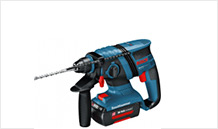
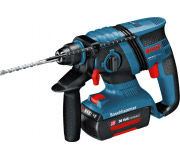
Добавил размеры

diff --git a/index.html b/index.html
@@ -41,14 +41,17 @@
       			<div class="catalog-item">
       				<h3>Материалы</h3>
       				<a href="">На любой вкус</a>
+      				<img src="img/icon-1.svg">
       			</div>
       			<div class="catalog-item">
       				<h3>Инструмент</h3>
       				<a href="">На все случаи</a>
+      				<img src="img/icon-2.svg">
       			</div>
       			<div class="catalog-item">
       				<h3>Техника</h3>
       				<a href="">Для стройки</a>
+      				<img src="img/icon-3.svg">
       			</div>
       			<div class="catalog-item">
 
@@ -73,10 +76,12 @@
       			<div class="catalog-item">
       				<h3>Скидки 50%</h3>
       				<a href="">На 350 товаров</a>
+      				<img src="img/icon-4.svg">
       			</div>
       			<div class="catalog-item">
       				<h3>Доставка</h3>
       				<a href="">Бесплатно</a>
+      				<img src="img/icon-5.svg">
       			</div>
       		</section>
 
@@ -103,7 +108,7 @@
       						<a href="">Перфоратор<span class="">BOSCH BFG 3000</span></a>
       					</h3>
       					<p>
-      						<a href=""><img src="img/bosch3000.jpg" width="218" height="129" alt="Перфоратор BOSCH BFG 3000"></a>
+      						<a href=""><img src="img/bosch3000.jpg" width="180" height="160" alt="Перфоратор BOSCH BFG 3000"></a>
       					</p>
       					<p>
       						<span class="item-price">22500р.</span>
@@ -115,7 +120,7 @@
       						<a href="">Перфоратор<span class="">BOSCH BFG 6000</span></a>
       					</h3>
       					<p>
-      						<a href=""><img src="img/bosch6000.jpg" width="218" height="129" alt="Перфоратор BOSCH BFG 6000"></a>
+      						<a href=""><img src="img/bosch6000.jpg" width="180" height="160" alt="Перфоратор BOSCH BFG 6000"></a>
       					</p>
       					<p>
       						<span class="item-price">30500р.</span>
@@ -127,7 +132,7 @@
       						<a href="">Перфоратор<span class="">BOSCH BFG 2000</span></a>
       					</h3>
       					<p>
-      						<a href=""><img src="img/bosch2000.jpg" width="218" height="129" alt="Перфоратор BOSCH BFG 2000"></a>
+      						<a href=""><img src="img/bosch2000.jpg" width="180" height="160" alt="Перфоратор BOSCH BFG 2000"></a>
       					</p>
       					<a href="" class="button item-button">12500р.</a>
        				</li>
@@ -141,28 +146,28 @@
       			</p>
       			<ul>
       				<li>
-      					<a href=""><img src="img/bosch.png" width="" height="" alt="BOSCH"></a>
+      					<a href=""><img src="img/bosch.png" width="126" height="37" alt="BOSCH"></a>
       				</li>
       				<li>
-      					<a href=""><img src="img/makita.png" width="" height="" alt="Makita"></a>
+      					<a href=""><img src="img/makita.png" width="123" height="40" alt="Makita"></a>
       				</li>
       				<li>
-      					<a href=""><img src="img/dewalt.png" width="" height="" alt="DeWALT"></a>
+      					<a href=""><img src="img/dewalt.png" width="146" height="44" alt="DeWALT"></a>
       				</li>
       				<li>
-      					<a href=""><img src="img/interscol.png" width="" height="" alt="Интерскол"></a>
+      					<a href=""><img src="img/interscol.png" width="184" height="32" alt="Интерскол"></a>
       				</li>
       				<li>
-      					<a href=""><img src="img/Hitachi.png" width="" height="" alt="Hitachi"></a>
+      					<a href=""><img src="img/Hitachi.png" width="169" height="31" alt="Hitachi"></a>
       				</li>
       				<li>
-      					<a href=""><img src="img/LG.png" width="" height="" alt="LG"></a>
+      					<a href=""><img src="img/LG.png" width="121" height="73" alt="LG"></a>
       				</li>
       				<li>
-      					<a href=""><img src="img/AEG.png" width="" height="" alt="AEG"></a>
+      					<a href=""><img src="img/AEG.png" width="151" height="96" alt="AEG"></a>
       				</li>
       				<li>
-      					<a href=""><img src="img/metabo.png" width="" height="" alt="metabo"></a>
+      					<a href=""><img src="img/metabo.png" width="204" height="69" alt="metabo"></a>
       				</li>
       			</ul>
       		</section>
@@ -201,7 +206,7 @@
       		<section class="contact">
       			<h2 class="caption">Контакты</h2>
       			<p>Вы можете забрать товар сами, заехав в наш офис.</p>
-      			<p><img src="img/maps.jpg" width="" height="" alt="metabo"></p>
+      			<p><img src="img/maps.jpg" width="300" height="158" alt="metabo"></p>
       			<a class="button contact-button" href="">Заблудились?Напишите нам.</a>
       		</section>
   		</main>

diff --git a/catalog.html b/catalog.html
@@ -60,7 +60,7 @@
                   <a href="">Перфоратор<span class="">BOSCH BFG   3000</span></a>
                 </h3>
                 <p>
-                  <a href=""><img src="img/bosch3000.jpg" width="218" height="129" alt="Перфоратор BOSCH BFG 3000"></a>
+                  <a href=""><img src="img/bosch3000.jpg" width="180" height="160" alt="Перфоратор BOSCH BFG 3000"></a>
                 </p>
                 <p>
                   <span class="item-price">22500р.</span>
@@ -72,7 +72,7 @@
                   <a href="">Перфоратор<span class="">BOSCH BFG   6000</span></a>
                 </h3>
                 <p>
-                  <a href=""><img src="img/bosch6000.jpg" width="218" height="129" alt="Перфоратор BOSCH BFG 6000"></a>
+                  <a href=""><img src="img/bosch6000.jpg" width="180" height="160" alt="Перфоратор BOSCH BFG 6000"></a>
                 </p>
                 <p>
                   <span class="item-price">30500р.</span>
@@ -96,7 +96,7 @@
                   <a href="">Перфоратор<span class="">BOSCH BFG   3000</span></a>
                 </h3>
                 <p>
-                  <a href=""><img src="img/bosch9000.jpg" width="218" height="129" alt="Перфоратор BOSCH BFG 9000"></a>
+                  <a href=""><img src="img/bosch9000.jpg" width="180" height="160" alt="Перфоратор BOSCH BFG 9000"></a>
                 </p>
                 <p>
                   <span class="item-price">22500р.</span>
@@ -108,7 +108,7 @@
                   <a href="">Перфоратор<span class="">BOSCH BFG   3000</span></a>
                 </h3>
                 <p>
-                  <a href=""><img src="img/bosch9000.jpg" width="218" height="129" alt="Перфоратор BOSCH BFG 9000"></a>
+                  <a href=""><img src="img/bosch9000.jpg" width="180" height="160" alt="Перфоратор BOSCH BFG 9000"></a>
                 </p>
                 <p>
                   <span class="item-price">22500р.</span>
@@ -120,7 +120,7 @@
                   <a href="">Перфоратор<span class="">BOSCH BFG   6000</span></a>
                 </h3>
                 <p>
-                  <a href=""><img src="img/bosch6000.jpg" width="218" height="129" alt="Перфоратор BOSCH BFG 6000"></a>
+                  <a href=""><img src="img/bosch6000.jpg" width="180" height="160" alt="Перфоратор BOSCH BFG 6000"></a>
                 </p>
                 <p>
                   <span class="item-price">30500р.</span>
@@ -132,7 +132,7 @@
                   <a href="">Перфоратор<span class="">BOSCH BFG   2000</span></a>
                 </h3>
                 <p>
-                  <a href=""><img src="img/bosch2000.jpg" width="218" height="129" alt="Перфоратор BOSCH BFG 2000"></a>
+                  <a href=""><img src="img/bosch2000.jpg" width="180" height="160" alt="Перфоратор BOSCH BFG 2000"></a>
                 </p>
                 <p>
                  <a href="" class="batton item-button">12500р.</a>
@@ -143,7 +143,7 @@
                   <a href="">Перфоратор<span class="">BOSCH BFG   3000</span></a>
                 </h3>
                 <p>
-                  <a href=""><img src="img/bosch9000.jpg" width="218" height="129" alt="Перфоратор BOSCH BFG 9000"></a>
+                  <a href=""><img src="img/bosch9000.jpg" width="180" height="160" alt="Перфоратор BOSCH BFG 9000"></a>
                 </p>
                 <p>
                   <span class="item-price">22500р.</span>
